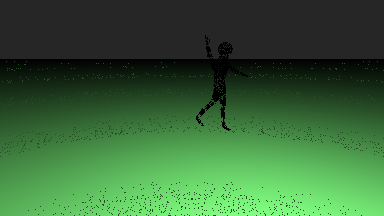
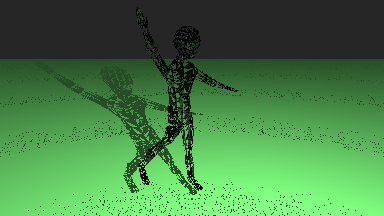
Fix recursive function by implementing a depth level

diff --git a/pyo3-speedup/raytracer_rs/src/raytrace.rs b/pyo3-speedup/raytracer_rs/src/raytrace.rs
@@ -24,11 +24,18 @@ impl Raytrace{
         Raytrace{}
     }
 
-    pub fn color_at_py(&self, intersect_pos: Vector, intersect_ray_direction: Vector, light_arr: Vec<Light>, scene_arr: Vec<Scene>, closest_obj_index: i32, accuracy: f32, ambient: f32) -> Option<Color>{
-        let mut sc = scene_arr.clone();
-        let scene: &mut Scene = sc.get_mut(closest_obj_index as usize).unwrap();
+    pub fn color_at_py(&self, intersect_pos: Vector, intersect_ray_direction: Vector, light_arr: Vec<Light>, scene_arr: Vec<Scene>,
+         closest_obj_index: i32, accuracy: f32, ambient: f32, depth: f32, mut final_color: Color) -> Option<Color>{
+            if depth > 100.0 {
+                return Some(final_color)
+            }
+        let scene: &Scene = match scene_arr.get(closest_obj_index as usize) {
+            Some(scene_ref) => scene_ref,
+            None => return None
+        };
         let closest_obj_normal = scene.normal_at(&intersect_pos).clone();
-        let closest_obj_color : &mut Color = &mut scene.color();
+        let mut closest_obj_color : Color = scene.color();
+
         if closest_obj_color.special == 2f32{
             let square = (intersect_pos.x.floor() + intersect_pos.z.floor()) as i32;
             if square % 2 == 0{
@@ -42,8 +49,9 @@ impl Raytrace{
                 closest_obj_color.b = 1f32;
             }
         }
-        let mut final_color = closest_obj_color.scale(ambient);
-        if closest_obj_color.special < 0f32{
+        final_color = closest_obj_color.scale(ambient).clone();
+        if 0f32 < closest_obj_color.special &&
+            closest_obj_color.special <= 1f32 {
             let dot = closest_obj_normal.dot_product(&intersect_ray_direction.negative());
             let scalar1 = &closest_obj_normal * dot;
             let add1 = &scalar1 + &intersect_ray_direction;
@@ -53,33 +61,40 @@ impl Raytrace{
             let reflection_ray = Ray{origin: intersect_pos.clone(), direction: reflect_direction.clone()};
             let mut reflect_intersections= Vec::<f32>::new();
             
-            let sc = scene_arr.clone();
-            
-            for scene in &sc{
+            for scene in &scene_arr{
                     let t = scene.intersect(&reflection_ray);
                     reflect_intersections.push(t);
             }
-            
+
             let index_closest_with_reflection = closest_object_index(&reflect_intersections);
-            let index_closest_w_r = index_closest_with_reflection.clone();
-            
-            let acc = reflect_intersections.get(index_closest_w_r as usize).unwrap();
-            
-            if index_closest_with_reflection != -1 && acc > &accuracy {
-                let inner = &reflect_direction *
-                *(reflect_intersections.get(index_closest_with_reflection as usize).unwrap());
-                let reflect_intersection_pos = &intersect_pos + &inner;
-                let reflect_intersection_ray_direction = reflect_direction;
-                
-                let reflect_intersection_color = self.color_at_py(
-                    reflect_intersection_pos, reflect_intersection_ray_direction,
-                    light_arr.clone(), scene_arr.clone(),
-                    closest_obj_index, accuracy, ambient).unwrap();
+
+
+            if index_closest_with_reflection != -1{
+                let acc = reflect_intersections
+                    .get(index_closest_with_reflection as usize)
+                    .unwrap_or_else(|| panic!("Failed to get element at index {}", index_closest_with_reflection));
+                if *acc > accuracy {
+                    let inner = &reflect_direction *
+                    *(reflect_intersections.get(index_closest_with_reflection as usize).expect("NO"));
+                    let reflect_intersection_pos = &intersect_pos + &inner;
+                    let reflect_intersection_ray_direction = reflect_direction;
                     
-                    final_color = final_color.clone() + reflect_intersection_color.scale(closest_obj_color.special);
+                    let reflect_intersection_color = self.color_at_py(
+                        reflect_intersection_pos.clone(), reflect_intersection_ray_direction.clone(),
+                        light_arr.clone(), scene_arr.clone(),
+                        index_closest_with_reflection.clone() as i32, accuracy.clone(), ambient.clone(), depth+1.0, final_color.clone());
                     
+
+                    match reflect_intersection_color{
+                        Some(res) => {
+                            final_color = final_color + res.scale(closest_obj_color.special);
+                        }
+                        None => {
+                            // println!("None")
+                        }
+                    }
                 }
-                
+            }
         }
         for light in light_arr{
             let light_direction = (&light.position + &intersect_pos.negative()).normalize();
@@ -109,7 +124,7 @@ impl Raytrace{
                 }
                 if !shadowed{
                     let s1 = light.color.scale(cos);
-                    let c : &Color = closest_obj_color;
+                    let c = &closest_obj_color;
                     final_color = final_color.clone() + c.clone() * s1;
 
                     if 0f32 < closest_obj_color.special && closest_obj_color.special <= 1f32{
@@ -128,7 +143,7 @@ impl Raytrace{
                 }
             }
         }
-        return Some(final_color.clip());
+        return Some(final_color.clip())
     }
 
 
@@ -144,7 +159,8 @@ fn closest_object_index(intersections: &Vec<f32>) -> isize {
         if intersections[0] > 0.0 {
             min_index = 0;
         }
-    } else {
+    }
+    else {
         let mut max_val = 0.0;
         for i in 0..intersections.len() {
             if max_val < intersections[i] {

diff --git a/pyo3-speedup/python-raytracer/render_scene.py b/pyo3-speedup/python-raytracer/render_scene.py
@@ -5,18 +5,20 @@ import RayTracer
 from tqdm import tqdm
 from raytracer_rs import Vector, Triangle, Color, Ray, Plane, Light, Scene, Sphere, Camera
 
-
 import time
 import copy
 
+import faulthandler
+
+faulthandler.enable()
 
 start = time.time()
 print("TRACIN' DEM RAYS...")
 
 filename = "test_img4.png"
 
-width = 640*2
-height = 480*2
+width = int(640*2)
+height = int(480*2)
 
 origin = Vector(0, 0, 0)
 unit_x = Vector(1, 0, 0)
@@ -81,7 +83,7 @@ scene_objects = [
 
 image = Image.new("RGB", (width, height))
 
-for x in range(0, width):
+for x in tqdm(range(0, width)):
     for y in range(0, height):
         temp_red = [None] * aa_depth * aa_depth
         temp_green = [None] * aa_depth * aa_depth
@@ -122,23 +124,15 @@ for x in range(0, width):
                                      cam_right * (xamnt - 0.5) +
                                      cam_down * (yamnt - 0.5)).normalize()
 
-                # print("CAM ORIGIN: ", cam_ray_origin)
-                # print("CAM direction: ", cam_ray_direction)
-
                 cam_ray = Ray(cam_ray_origin, cam_ray_direction)
 
-                # print("CAM RAY", cam_ray.origin)
-                # print("CAM RAY", cam_ray.direction)
 
                 intersections = []
                 for i in range(0, len(scene_objects)):
                     intersections.append(scene_objects[i].intersect(cam_ray))
 
-                # print(intersections)
-
                 closest_obj_index = RayTracer.closest_object_index(intersections)
 
-                # print(closest_obj_index)
 
                 if closest_obj_index == -1:
                     temp_red[aa_index] = 0
@@ -152,12 +146,7 @@ for x in range(0, width):
                         intersection_color = RayTracer.color_at(intersect_pos, intersect_ray_direction,
                                                                 scene_objects, closest_obj_index, lights,
                                                                 accuracy, ambient)
-
-                        # print(intersection_color.r)
-                        # print(intersection_color.g)
-                        # print(intersection_color.b)
-                        # print(intersection_color.special)
-
+                        
                         temp_red[aa_index] = intersection_color.r
                         temp_green[aa_index] = intersection_color.g
                         temp_blue[aa_index] = intersection_color.b

diff --git a/pyo3-speedup/raytracer_rs/src/sphere.rs b/pyo3-speedup/raytracer_rs/src/sphere.rs
@@ -5,20 +5,23 @@ use crate::{color::Color, vector::Vector, ray::Ray};
 #[derive(Debug, Clone)]
 #[pyclass]
 pub struct Sphere{
+    #[pyo3(get, set)]
     pub center: Vector,
+    #[pyo3(get, set)]
     pub radius: f32,
+    #[pyo3(get, set)]
     pub color: Color
 }
 
 #[pymethods]
 impl Sphere{
     #[new]
-    pub fn new(center: Vector, radius: f32, color: Color) -> Self{
+    pub fn new(center: Vector, radius: f32, color: Color) -> Sphere{
         Sphere { center, radius, color }
     }
 
     pub fn normal_at(&self, point: &Vector) -> Vector{
-        (point + &self.center.negative()).negative()
+        (point + &self.center.negative()).normalize().clone()
     }
 
     pub fn intersect(&self, ray: &Ray) -> f32 {
@@ -37,11 +40,11 @@ impl Sphere{
         let discriminant = b * b - 4.0 * a * c;
 
         if discriminant >= 0.0 {
-            let first_root = (-b - discriminant.sqrt()) / (2.0 * a) - 0.000001;
+            let first_root = (-1.0 * b - discriminant.sqrt()) / 2.0  - 0.000001;
             if first_root > 0.0 {
                 return first_root;
             } else {
-                let second_root = (-b + discriminant.sqrt()) / (2.0 * a) - 0.000001;
+                let second_root = (-1.0 * b + discriminant.sqrt()) / 2.0 - 0.000001;
                 return second_root;
             }
         } else {

diff --git a/pyo3-speedup/raytracer_rs/src/camera.rs b/pyo3-speedup/raytracer_rs/src/camera.rs
@@ -20,10 +20,18 @@ impl Camera{
     pub fn new(position: Option<Vector>, direction: Option<Vector>,
          right: Option<Vector>, down: Option<Vector>) -> Self{
         let mut cam = Camera{
-            position: Vector::new(Some(0.0), Some(0.0), Some(0.0)),
-            direction: Vector::new(Some(0.0), Some(0.0), Some(1.0)),
-            right: Vector::new(Some(0.0), Some(0.0), Some(0.0)),
-            down: Vector::new(Some(0.0), Some(0.0), Some(0.0))
+            position: Vector{
+                x: 0.0, y:0.0, z:0.0
+            },
+            direction: Vector{
+                x: 0.0, y:0.0, z:1.0
+            },
+            right: Vector{
+                x: 0.0, y:0.0, z:0.0
+            },
+            down: Vector{
+                x: 0.0, y:0.0, z:0.0
+            },
         };
 
         if position.is_some(){

diff --git a/pyo3-speedup/python-raytracer/RayTracer.py b/pyo3-speedup/python-raytracer/RayTracer.py
@@ -1,7 +1,7 @@
 __author__ = 'halileohalilei'
 
 import raytracer_rs
-from raytracer_rs import Raytrace
+from raytracer_rs import Raytrace, Color
 
 def closest_object_index(intersections):
     min_index = -1
@@ -32,7 +32,7 @@ def color_at(intersect_pos, intersect_ray_direction, scene_objects,
     rt = Raytrace()
 
     result = rt.color_at_py(intersect_pos, intersect_ray_direction, lights,
-             scene_objects, closest_obj_index, accuracy, ambient)
+             scene_objects, closest_obj_index, accuracy, ambient, 0, Color(0.5, 0.25, 0.25, 0.1))
 
 
     return result

diff --git a/pyo3-speedup/python-raytracer/main.py b/pyo3-speedup/python-raytracer/main.py
@@ -4,8 +4,8 @@ from PIL import Image
 from tqdm import tqdm
 import RayTracer
 import raytracer_rs
-from raytracer_rs import Vector, Triangle, Color, Ray, Plane, Light, Scene
-from Camera import Camera
+from raytracer_rs import Vector, Triangle, Color, Ray, Plane, Light, Scene, Camera
+# from Camera import Camera
 
 import time
 import copy
@@ -28,7 +28,7 @@ aspect_ratio = float(width)/float(height)
 ambient = 0.3
 accuracy = 0.00000001
 
-sphere_center = Vector(3, -0.5, 0)
+# sphere_center = Vector(3, -0.5, 0)
 
 cam_position = Vector(5, 2.5, 10)
 

diff --git a/pyo3-speedup/raytracer_rs/src/scene.rs b/pyo3-speedup/raytracer_rs/src/scene.rs
@@ -4,7 +4,7 @@ use crate::sphere::Sphere;
 use crate::vector::Vector;
 use crate::ray::Ray;
 
-#[derive(Clone)]
+#[derive(Clone, Debug)]
 #[pyclass]
 pub struct Triangle{
     #[pyo3(get, set)]
@@ -104,7 +104,7 @@ impl Triangle{
     }
 }
 
-#[derive(Clone)]
+#[derive(Clone, Debug)]
 #[pyclass]
 pub struct Plane{
     #[pyo3(get, set)]
@@ -159,7 +159,7 @@ impl Plane{
     }
 }
 
-#[derive(Clone)]
+#[derive(Clone, Debug)]
 #[pyclass]
 pub struct Scene{
     #[pyo3(get, set)]
